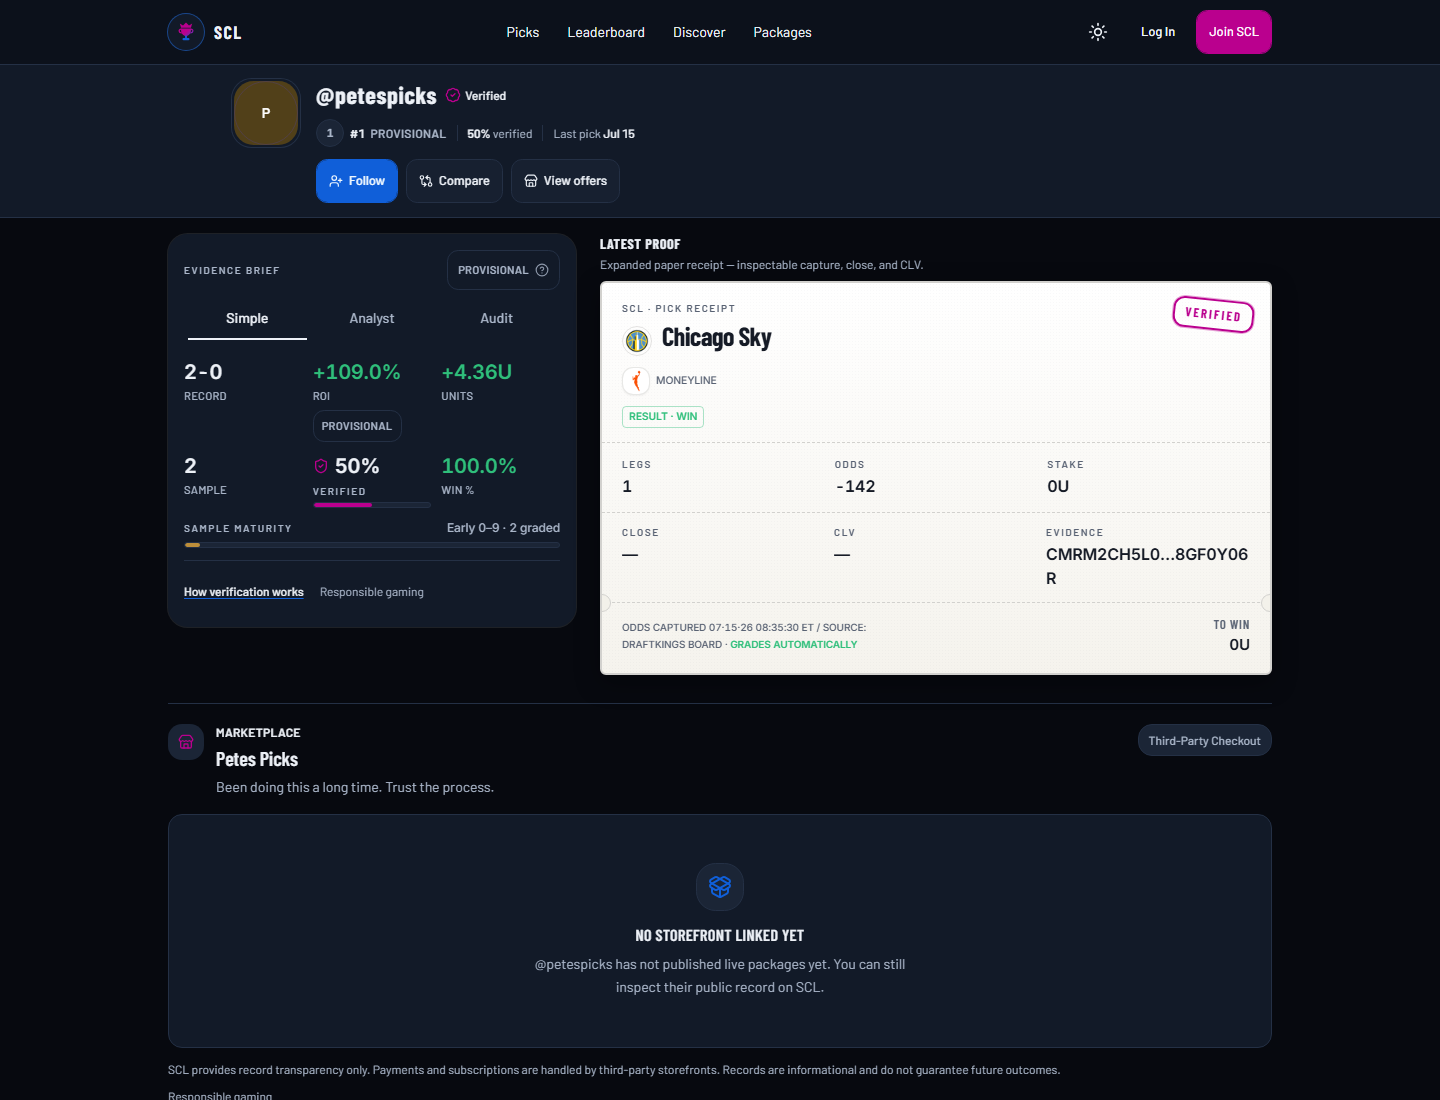
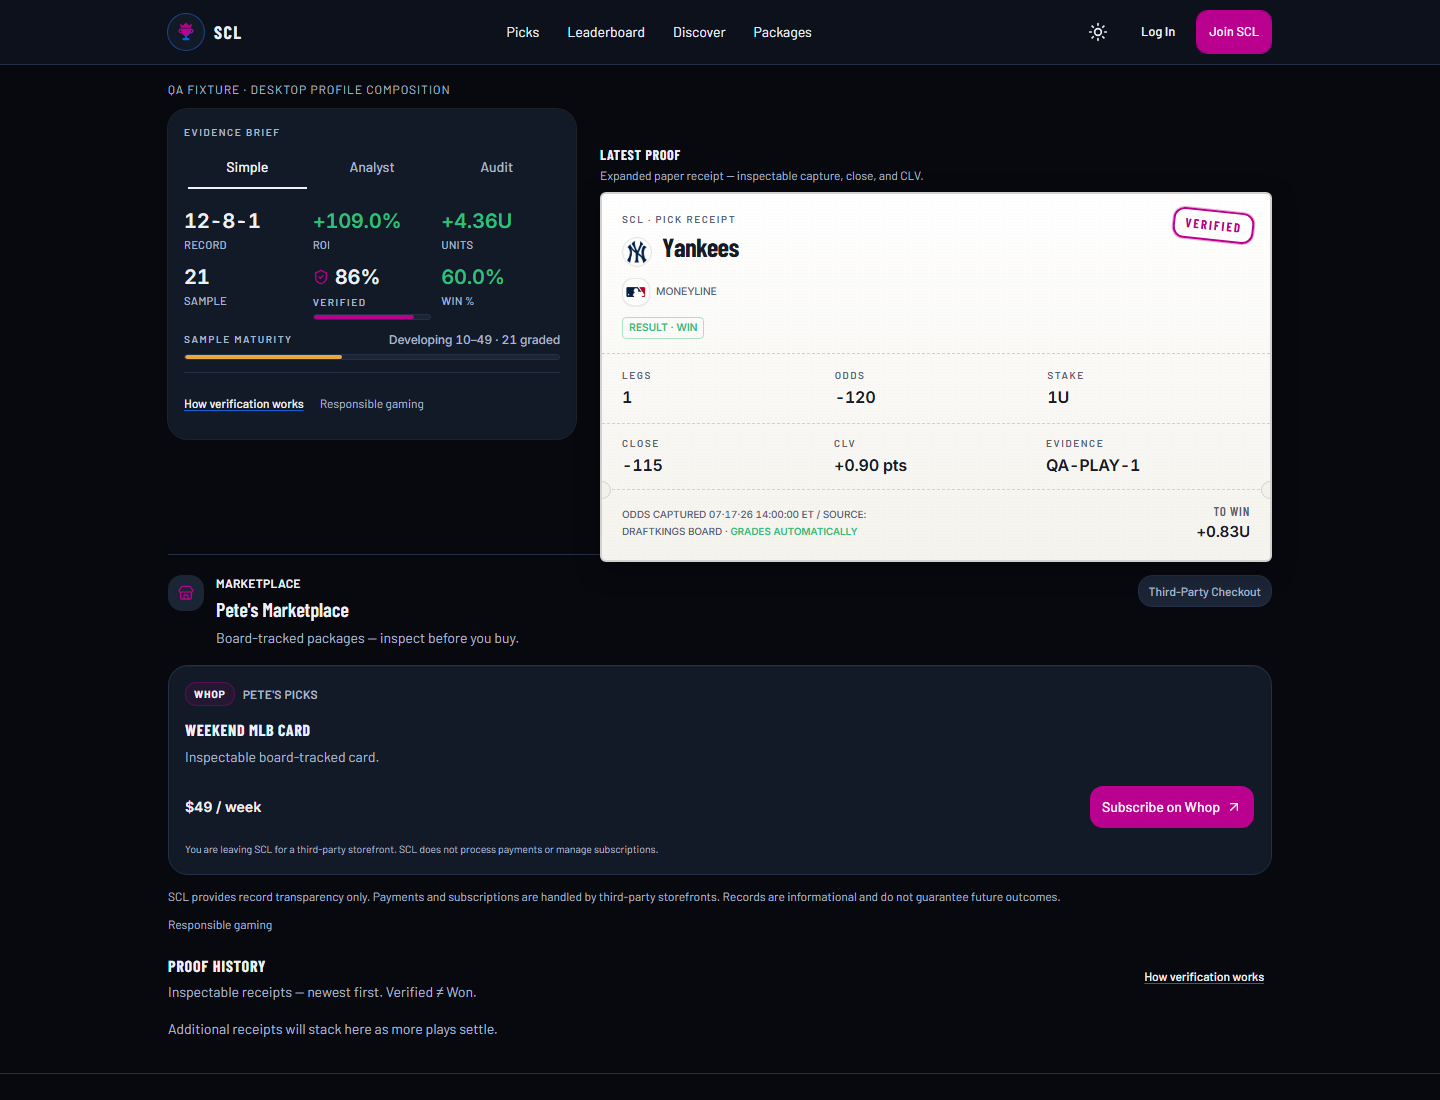
fix(ui): drop 1536 3-col profile rail; keep 2-col + marketplace band
Marketplace stays a full-width band at all desktop widths ≥1024 so Evidence
stats are never squeezed (fixes +109.0%/+4.36U collision). QA fixture +
re-shot 1280/1440/1536 for Claude gate.

diff --git a/src/app/(marketing)/qa/desktop-profile-composition/page.tsx b/src/app/(marketing)/qa/desktop-profile-composition/page.tsx
@@ -1,0 +1,106 @@
+import { notFound } from "next/navigation";
+
+import { EvidenceBrief } from "@/components/scl/evidence-brief";
+import { ResponsiveCapperStorefront } from "@/components/scl/responsive-capper-storefront";
+import type { CapperSummary } from "@/lib/mock";
+import type { PlayView } from "@/lib/queries/plays";
+
+/**
+ * Local / Claude visual-gate fixture for desktop profile composition.
+ * Production 404 unless ALLOW_QA_SHOTS=1 (never linked from nav).
+ */
+export default function DesktopProfileCompositionQaPage() {
+  if (
+    process.env.NODE_ENV === "production" &&
+    process.env.ALLOW_QA_SHOTS !== "1"
+  ) {
+    notFound();
+  }
+
+  const capper: CapperSummary = {
+    id: "qa-composition",
+    name: "Pete's Picks",
+    handle: "petespicks",
+    verified: true,
+    topSport: "MLB",
+    rank: 3,
+    rankDelta: 0,
+    record: { w: 12, l: 8, p: 1 },
+    winPct: 60,
+    // Reproduce the colliding ROI/Units pair from the 1536 regression report.
+    units: 4.36,
+    roi: 109,
+    streak: 2,
+    recentForm: ["W", "W", "L", "W", "W", "L"],
+    trophies: [],
+    settledPicks: 21,
+    verifiedShare: 86,
+    avgClv: 1.2,
+    storefront: {
+      title: "Pete's Marketplace",
+      description: "Board-tracked packages — inspect before you buy.",
+      enabled: true,
+      customized: true,
+    },
+  };
+
+  const plays: PlayView[] = [
+    {
+      id: "qa-play-1",
+      sport: "MLB",
+      league: null,
+      market: "Moneyline",
+      selection: "Yankees",
+      oddsAmerican: -120,
+      units: 1,
+      outcome: "WIN",
+      profitUnits: 0.83,
+      createdAt: new Date("2026-07-17T18:00:00Z"),
+      verificationTier: "VERIFIED",
+      side: "Yankees",
+      eventStartsAt: new Date("2026-07-17T23:05:00Z"),
+      book: "draftkings",
+      notes: null,
+      closingOddsAmerican: -115,
+      clvPts: 0.9,
+    },
+  ];
+
+  const packages = [
+    {
+      id: "qa-pkg-1",
+      title: "Weekend MLB Card",
+      description: "Inspectable board-tracked card.",
+      priceLabel: "$49 / week",
+      provider: "WHOP" as const,
+      trackingPath: "/packages",
+      capperName: capper.name,
+      capperHandle: capper.handle,
+    },
+  ];
+
+  return (
+    <div className="overflow-x-hidden pb-6 sm:pb-8" data-visual-mode="proof">
+      <div className="mx-auto mt-4 max-w-6xl px-4 sm:px-6">
+        <p className="text-muted-foreground mb-3 text-xs tracking-[0.08em] uppercase">
+          QA fixture · desktop profile composition
+        </p>
+        <EvidenceBrief
+          capper={capper}
+          plays={plays}
+          avgClv={1.2}
+          emptyName={capper.name}
+          desktopStorefront={
+            <ResponsiveCapperStorefront
+              viewport="desktop"
+              className="mt-0"
+              storefront={capper.storefront}
+              capperName={capper.name}
+              packages={packages}
+            />
+          }
+        />
+      </div>
+    </div>
+  );
+}

diff --git a/src/components/scl/evidence-brief.tsx b/src/components/scl/evidence-brief.tsx
@@ -165,7 +165,7 @@ export function EvidenceBrief({
   avgClv?: number | null;
   clvTracker?: ClvTrackerSummary;
   emptyName: string;
-  /** Marketplace rail/band — rendered only from `lg` upward (never on mobile). */
+  /** Marketplace band under peers — rendered only from `lg` upward (never on mobile). */
   desktopStorefront?: ReactNode;
   className?: string;
 }) {
@@ -371,37 +371,22 @@ export function EvidenceBrief({
   return (
     <div className={cn("space-y-3 sm:space-y-5", className)}>
       {/*
-        Desktop (lg–<1536): Evidence | Latest Proof peers; Marketplace
-        full-width band below (approved 1280 layout through 1535).
-        ≥1536 only: Marketplace as third column (≥320px).
+        Desktop (lg+): Evidence | Latest Proof peers; Marketplace always a
+        full-width band under the peers (no 3-col rail — avoids squeezing
+        the evidence stats and reads cleaner than a sidebar ad).
         Mobile: stacked Evidence then Proof (unchanged). Storefront never
         injects above Meta on mobile — page owns that band.
       */}
       <div
         className={cn(
           "grid items-start gap-4 sm:gap-5 lg:gap-6",
-          // Exclusive ranges (not plain `lg:` + `min-[1536px]:`) — Tailwind
-          // emits `lg:grid-cols-*` after arbitrary min breakpoints, so the
-          // 2-col rule would otherwise win at the 3-col breakpoint.
-          desktopStorefront
-            ? [
-                "[@media(min-width:1024px)_and_(max-width:1535px)]:grid-cols-[minmax(280px,0.85fr)_minmax(460px,1.4fr)]",
-                "min-[1536px]:grid-cols-[minmax(280px,0.85fr)_minmax(460px,1.4fr)_minmax(320px,0.9fr)]",
-              ]
-            : "lg:grid-cols-[minmax(280px,0.85fr)_minmax(460px,1.4fr)]",
+          "lg:grid-cols-[minmax(280px,0.85fr)_minmax(460px,1.4fr)]",
         )}
       >
         {evidenceRecord}
         <div className="min-w-0 lg:sticky lg:top-20">{latestProof}</div>
         {desktopStorefront ? (
-          <aside
-            className={cn(
-              "border-border hidden lg:block",
-              // <1536: full-width band under peers; ≥1536: third column ≥320px
-              "max-[1536px]:col-span-2 max-[1536px]:mt-1 max-[1536px]:border-t max-[1536px]:pt-5",
-              "min-[1536px]:col-span-1 min-[1536px]:mt-0 min-[1536px]:min-w-[320px] min-[1536px]:border-t-0 min-[1536px]:border-l min-[1536px]:pt-0 min-[1536px]:pl-6",
-            )}
-          >
+          <aside className="border-border mt-1 hidden border-t pt-5 lg:col-span-2 lg:block">
             {desktopStorefront}
           </aside>
         ) : null}
